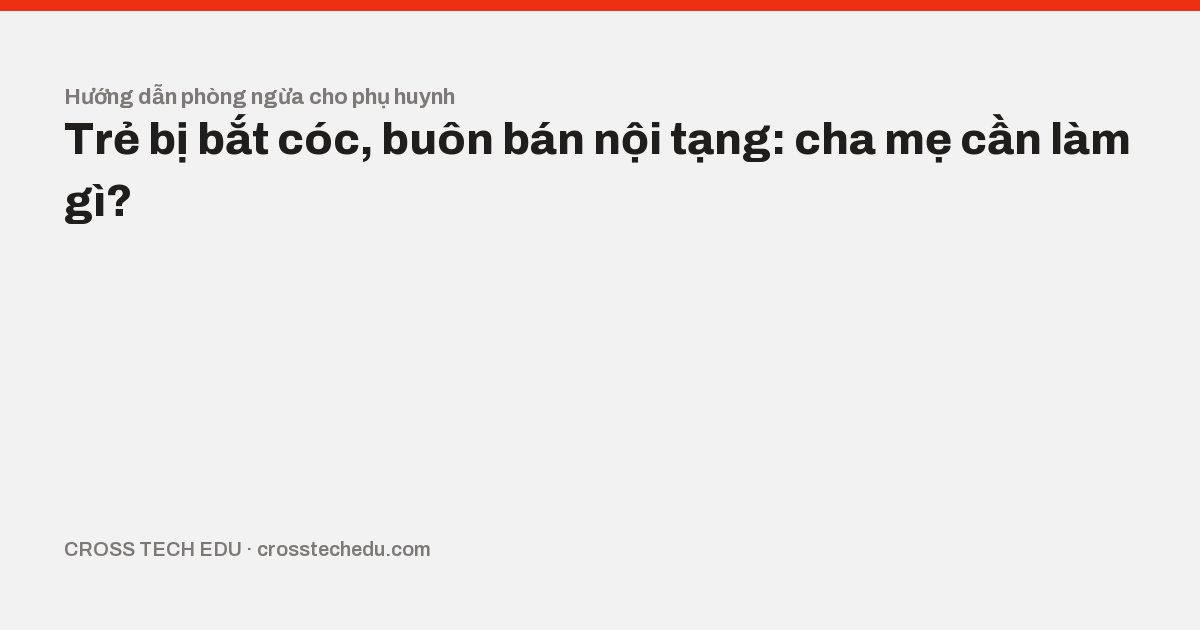
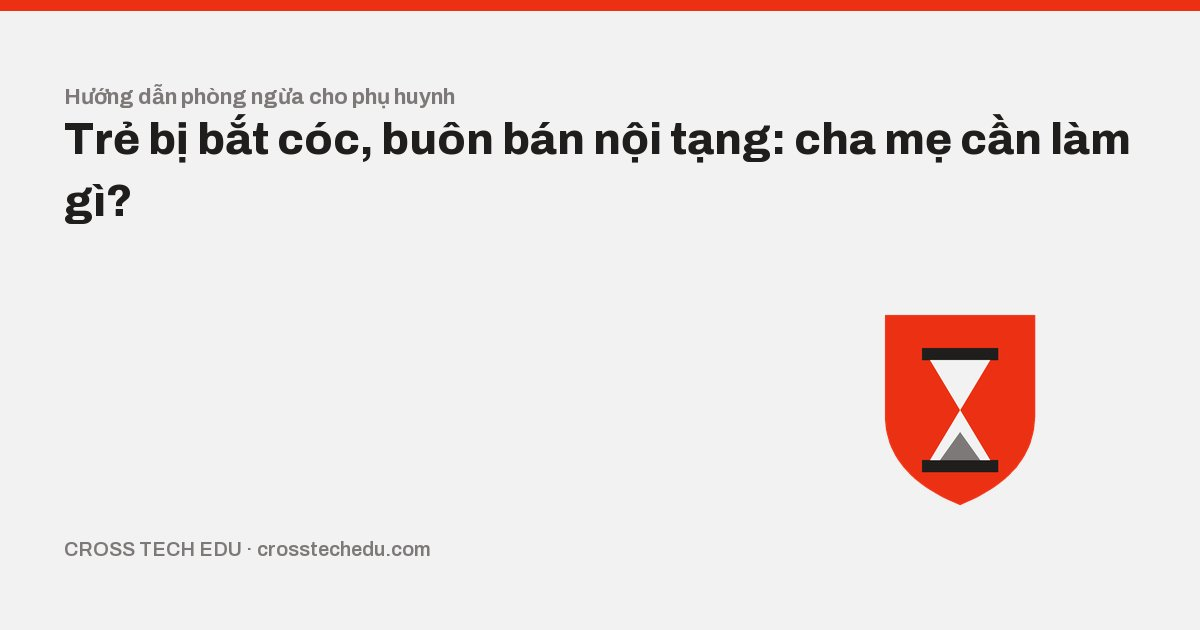
Redesign child-safety article figures and VI cover
- 60-minutes SVG: real shield icon, larger type, panels end above footer
- Safezone SVG: chips fit inside the left panel, pins no longer overlap, larger type
- Cover generator: optional --illustration shield-hourglass (antialiased); regenerate VI cover

Changed region(s): [[0.7092, 0.4825, 0.8633, 0.8143]]

diff --git a/scripts/build_article_cover.py b/scripts/build_article_cover.py
@@ -4,7 +4,7 @@ Reuses the font/palette approach from scripts/build_assets.py:
 - FallbackFont across Archivo woff2 subsets (latin, latin-ext, vietnamese)
 - Palette hexes from app/static/css/tokens.css
 
-CLI: python scripts/build_article_cover.py --title "..." --kicker "..." --out out.jpg
+CLI: python scripts/build_article_cover.py --title "..." --kicker "..." --out out.jpg [--illustration shield-hourglass]
 
 Quality is tuned so the output stays under 120 KB.
 """
@@ -74,7 +74,37 @@ def wrap(font: FallbackFont, text: str, max_w: int) -> list[str]:
     return lines + [cur]
 
 
-def build_cover(title: str, kicker: str, out: Path, quality: int = 85) -> None:
+def _quad(p0, p1, p2, steps: int = 24):
+    pts = []
+    for i in range(steps + 1):
+        t = i / steps
+        x = (1 - t) ** 2 * p0[0] + 2 * (1 - t) * t * p1[0] + t * t * p2[0]
+        y = (1 - t) ** 2 * p0[1] + 2 * (1 - t) * t * p1[1] + t * t * p2[1]
+        pts.append((x, y))
+    return pts
+
+
+def draw_shield_hourglass(d: ImageDraw.ImageDraw, cx: float, cy: float, k: float = 1) -> None:
+    """Red shield (150 x 190) with a light hourglass, centred on (cx, cy). Sizes scale by k."""
+    def p(x, y):
+        return (cx + x * k, cy + y * k)
+
+    # Shield: flat top, straight sides, curved lower half meeting at a point.
+    shield = [p(-75, -95), p(75, -95), p(75, 5)]
+    shield += _quad(p(75, 5), p(75, 65), p(0, 95))[1:]
+    shield += _quad(p(0, 95), p(-75, 65), p(-75, 5))[1:]
+    d.polygon(shield, fill=ACCENT)
+
+    # Hourglass: two caps, two glass triangles, sand in the lower bulb.
+    w, h = 30 * k, 50 * k
+    d.rectangle([cx - w - 8 * k, cy - h - 12 * k, cx + w + 8 * k, cy - h], fill=TEXT)
+    d.rectangle([cx - w - 8 * k, cy + h, cx + w + 8 * k, cy + h + 12 * k], fill=TEXT)
+    d.polygon([(cx - w, cy - h), (cx + w, cy - h), (cx, cy)], fill=BG)
+    d.polygon([(cx - w, cy + h), (cx + w, cy + h), (cx, cy)], fill=BG)
+    d.polygon([(cx - w + 10 * k, cy + h), (cx + w - 10 * k, cy + h), (cx, cy + 22 * k)], fill=MUTED)
+
+
+def build_cover(title: str, kicker: str, out: Path, quality: int = 85, illustration: str | None = None) -> None:
     W, H = 1200, 630
     img = Image.new("RGB", (W, H), BG)
     d = ImageDraw.Draw(img)
@@ -99,6 +129,19 @@ def build_cover(title: str, kicker: str, out: Path, quality: int = 85) -> None:
         title_font.draw(d, (pad, y), line, TEXT)
         y += 62
 
+    # Optional illustration in the empty band between title and footer
+    if illustration == "shield-hourglass":
+        # Draw at 4x on a transparent RGBA layer, then downscale with LANCZOS for smooth edges.
+        ss = 4
+        cx, cy, half_w, half_h = 960, 410, 100, 120
+        layer = Image.new("RGBA", (2 * half_w * ss, 2 * half_h * ss), (0, 0, 0, 0))
+        draw_shield_hourglass(ImageDraw.Draw(layer), cx=half_w * ss, cy=half_h * ss, k=ss)
+        layer = layer.resize((2 * half_w, 2 * half_h), Image.LANCZOS)
+        img = img.convert("RGBA")
+        img.alpha_composite(layer, (cx - half_w, cy - half_h))
+        img = img.convert("RGB")
+        d = ImageDraw.Draw(img)
+
     # Footer
     footer_font = FallbackFont(20, weight=600)
     footer = "CROSS TECH EDU · crosstechedu.com"
@@ -118,5 +161,11 @@ if __name__ == "__main__":
     parser.add_argument("--title", required=True, help="Main cover title")
     parser.add_argument("--kicker", required=True, help="Small kicker line above the title")
     parser.add_argument("--out", required=True, help="Output JPEG path")
+    parser.add_argument(
+        "--illustration",
+        choices=["shield-hourglass"],
+        default=None,
+        help="Optional illustration drawn between the title and the footer (default: none)",
+    )
     args = parser.parse_args()
-    build_cover(args.title, args.kicker, Path(args.out))
+    build_cover(args.title, args.kicker, Path(args.out), illustration=args.illustration)
